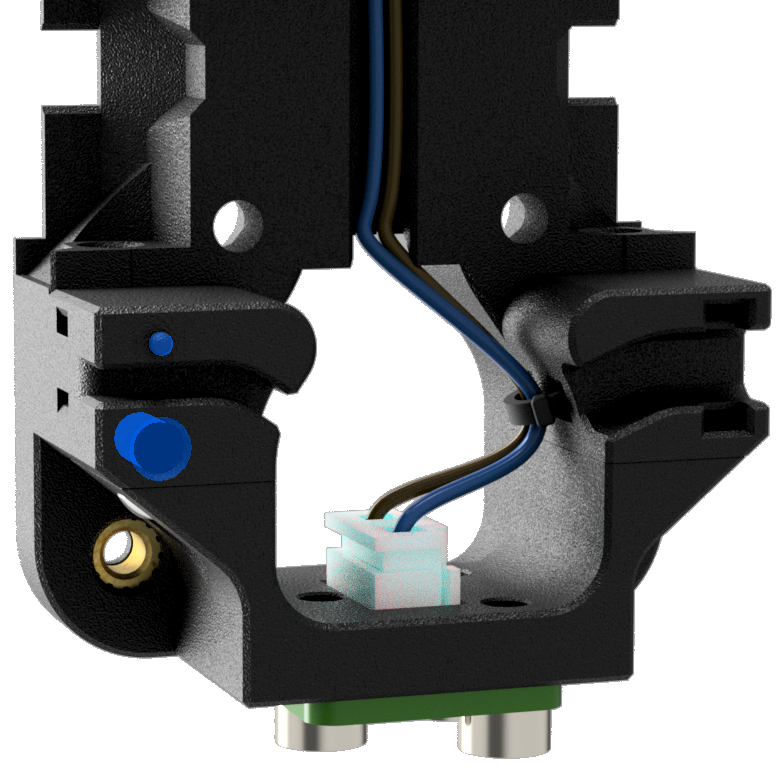
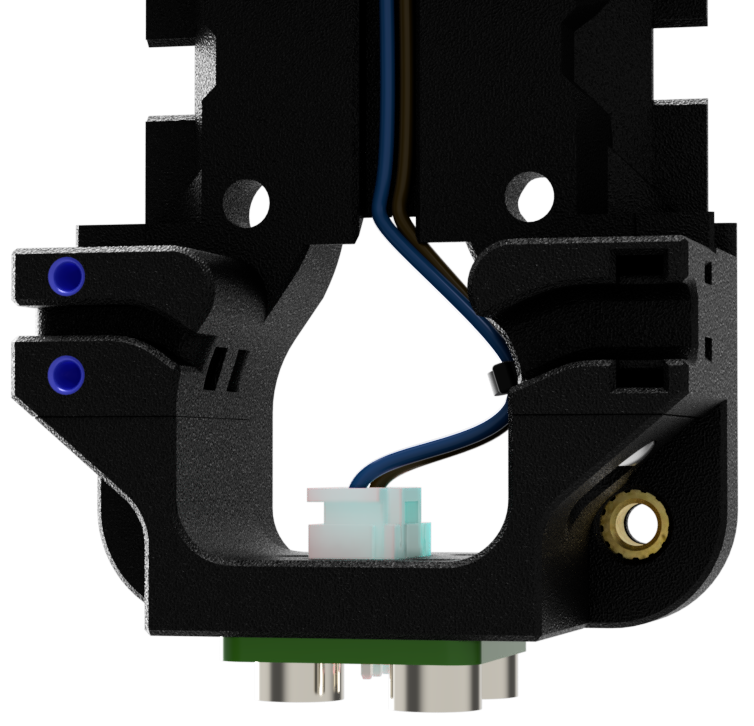
Toolhead assembly doco

diff --git a/docs/toolhead_assembly.md b/docs/toolhead_assembly.md
@@ -1,53 +1,32 @@
 # Xol Toolhead Assembly
 
-<img src='assets/images/xol_toolhead/toolhead-sherpa-rapido.png' width=300 />
+<img src='assets/images/Xol-Toolhead_render_with_both.png' width=100% />
 
 
-> ⚠ **Not Done**: Everything below here still needs to be updated
-> 
+`The details below are for Rapido and Sherpa-Mini. We have faith that you can work it out from here if you're using a different combination of hotend and extruder. If you have trouble look for the #xol-toolhead channel on the Discord.`
+|	Notes	|	Image	|
+|	--------------------	|	--------------------	|
+|	Remove the included supports. They're going to get in the way if you don’t.	|	<img src='assets/images/xol_toolhead/supports_he_mount.png' width=300 /><img src='assets/images/xol_toolhead/supports_extruder_mount.png' width=300 />	|
+|	An easy one to start, put one M3 hexnut into the hotend mount. <br/>`Pushes in from below on most, slides in from the side for NF-Crazy`	|	<img src='assets/images/xol_toolhead/em_hexnut.png' width=400 />	|
+|	LEDs are next (if you're using them). <br/>Push them into the slots provided.	|	<img src='assets/images/xol_toolhead/led_wires_1.png' width=400 /><br/><img src='assets/images/xol_toolhead/led_wires_2.png' width=300 /><br/><img src='assets/images/xol_toolhead/led_wires_3.png' width=300 />	|
+|	Push the diffuser (or accent logo piece) into the faceplate.	|	<img src='assets/images/xol_toolhead/faceplate_install_diffuser.png' width=400 />	|
+|	Install the 2510 hotend fan. Make sure you don't squash any LED wires, and secure with <br/>4x M3x16 SHCS.	|	<img src='assets/images/xol_toolhead/toolhead_2510_faceplate2.png' width=400 />	|
+|	Put the screws into the "feet" now, your hotend may be in the way later.<br/>2x M3x12 SHCS	|	<img src='assets/images/xol_toolhead/feet_screws.png' width=400 />	|
+|	Install your hotend into the mount. Don't forget the PTFE tube. `Shown with three screws due to example using Sherpa-Mini extruder mount with Rapido HE mount. Most combinations will use all four hotend screws.`	|	<img src='assets/images/xol_toolhead/install_he.png' width=400 />	|
+|	Slide the fans in and fix with printed parts and screws. `The printed parts protect the 4010 blower mounting ears. Don't skip them`<br/>4x M2.5 saver [printed part]<br/>4x M2.5x8 SCHS<br/><br/><br/><br/><br/><br/><br/>XolPAP users can skip this step. Those ducts are put on at the end.	|	<img src='assets/images/xol_toolhead/complete_he_mount2.png' width=300 /><img src='assets/images/xol_toolhead/complete_he_mount1.png' width=300 /><br/><img src='assets/images/xol_toolhead/complete_he_mount_xolpap.png' width=300 />	|
+|	Time to move onto the extruder mount assembly. Install 4 or 5 heatset inserts into your extruder mount.	|	<img src='assets/images/xol_toolhead/extruder_mount_heatsets.png' width=400 />	|
+|	Attach the extruder to the extruder mount.<br/>2x M3x20 SHCS for Sherpa-Mini (usually M3x8 SHCS for others)<br/>1x M3x6 BHCS for extruder faceplate where applicable.	|	<img src='assets/images/xol_toolhead/extruder_to_extruder_mount.png' width=400 />	|
+|	Screw your 20mm stand-offs onto the long screws you used to attach your extruders stepper motor.	|	<img src='assets/images/xol_toolhead/20mm_standoffs.png' width=400 />	|
+|	Now you can mount your toolhead board/CAN board/strain relief printed part etc. to the stand-offs<br/>2x M3x16 SHCS	|	<img src='assets/images/xol_toolhead/attach_ebb-CAN.png' width=400 />	|
+|	The extruder assembly is now combined with the HE mount assembly.<br/>1x M3x6 BHCS<br/>2x M3x16 SHCS `Just through enough to hold it all together`	|	<img src='assets/images/xol_toolhead/attach_extruder-to_he-mount.png' width=400 />	|
+|	Now that everything is together, those using CAN or other toolhead boards can cut/crimp/tidy wiring to the right lengths before final assembly.	|	<img src='assets/images/xol_toolhead/mess.jpg' width=400 />	|
+|	⚠ **Tap/Standard Voron carriage users only!**<br/><br/>Now you have to undo your cables from your toolhead board and pull the extruder assembly off again.<br/><br/>Take the extruder off the extruder mount, and attach it to the top of the Tap/Voron carriage with 2x M3x8 SHCS.<br/><br/>Slide the HE mount assembly up under the extruder mount and re-attach the HE mount to the extruder mount.`Rember you're probably screwing into plastic on a Voron carriage here!`<br/><br/>Now you can put your extruder/toolhead board bits back on and reconnect all your wires.	|	<img src='assets/images/xol_toolhead/tap_extruder_mount.png' width=400 /><br/><img src='assets/images/xol_toolhead/tap_extruder_and_hotend_mounts.png' width=400 /><br/><img src='assets/images/xol_toolhead/tap_extruder_and_thb.png' width=400 />	|
+|	Now that we have that Tap stuff out of the way. Time to get things attached for Xol Carriage.<br/><br/>Start with the two front, upper screws<br/>2x M3x16 that were already there but need to be tightened.	|	<img src='assets/images/xol_toolhead/toolhead_to_carriage_upper_screws.png' width=400 />	|
+|	⚠ **The front lower screws need a ball head hex driver. Don't strip your SHCS.**<br/><br/>Tighten the feet<br/>2x M3x12 SHCS, that were also already there. <br/><br/>`This is for Tap/Voron Carriages too.`	|	<img src='assets/images/xol_toolhead/toolhead_to_carriage_lower_screws.png' width=400 />	|
+|	Reach around the back for the last 3 screws!<br>3x M3x8 SHCS <br/><br/>`Sorry XolPAP users, you have some more screws`<br/><br/>`Don't forget to connect your probe`	|	<img src='assets/images/xol_toolhead/toolhead_to_carriage_rear_screws.png' width=400 />	|
+|	Alright XolPAP fans, we're finally here. Slide the ducts over the toolhead and attach with<br/>8x M2.5x8 SHCS `4 per side`	|	<img src='assets/images/xol_toolhead/xolpap_screws.png' width=400 />	|
+|Don't forget your software configuration!| ⚠ Things are probably different with your new setup. <br/> <br/> * Endstop positions for X: `[stepper_x]` check `position_endstop` and `position_max` <br/> * Your probe offset: Do a `probe_calibrate` <br/> You know your printer better than anyone else. Check your work. |
 
-### These instructions are for off-printer assembly using Xol Carriage. If you use Voron TAP, scroll down, you have to do things differently.
-The details below are for Rapido and Sherpa-Mini. We have faith that you can work it out from here if you're using a different combination of hotend and extruder. If you have trouble look for the #xol-toolhead channel on the Discord.
-| Notes                                                                                                                                                                                                                                                                                                                                                                                                                                                                                                                                                                   | Image                                                                                                                                                                                                                                                                            |
-| ----------------------------------------------------------------------------------------------------------------------------------------------------------------------------------------------------------------------------------------------------------------------------------------------------------------------------------------------------------------------------------------------------------------------------------------------------------------------------------------------------------------------------------------------------------------------- | -------------------------------------------------------------------------------------------------------------------------------------------------------------------------------------------------------------------------------------------------------------------------------- |
-| Warm up the soldering iron again. It's time for heatsets <br/><br/> Starting with the Hotend Mount <br/> 4x M2 will hold the back two screws of each 4010 blower fan                                                                                                                                                                                                                                                                                                                                                                                                     | <img src='assets/images/xol_toolhead/heatsets_hotend-mount_blowers-m2.png' width=400 />                                                                                                                                                                                          |
-| 2x M2.5 in the 'feet' for attaching to Xol-Carriage <br/> `If you're using TAP or you skipped on the M2.5 heatsets, skip these. M3 heatsets will go into the bottom of the Xol-Carriage front part`                                                                                                                                                                                                                                                                                                                                                                       | <img src='assets/images/xol_toolhead/heatsets_hotend-mount_feet-m2.5.png' width=400 />                                                                                                                                                                                           |
-| `Optional Fan Heatset versions` <br/> 4x M2.5 for Hotend fan mounting                                                                                                                                                                                                                                                                                                                                                                                                                                                                                                   | <img src='assets/images/xol_toolhead/heatsets_hotend-mount_HE-fan-m2.5.png' width=400 />                                                                                                                                                                                         |
-| 1x M3 Hex Nut for the front extruder block attachment point.                                                                                                                                                                                                                                                                                                                                                                                           | <img src='assets/images/xol_toolhead/hexnuts_hotend-mount_to-extruder-mount-m3.png' width=400 />                                                                                                                                                                                |
-| `Optional BONES` <br/> <br/> These can be a little tricky. Screw in the M2x30 SHCS from the front of the hotend mount until they are about 5.5mm from being fully screwed in. Now put in the M2 heatset from the back, and while it's still hot screw the M2x30 all the way in. This aligns the heatset while the plastic is still soft <br/> <br/> 2x M2 Heatset <br/> 2x M2x30 SHCS                                                                                                                                                                                   | <img src='assets/images/xol_toolhead/heatsets_hotend-mount_BONES-m2.png' width=400 />                                                                                                                                                                                            |
-| 2x M3 in the upper back of the extruder mount                                                                                                                                                                                                                                                                                                                                                                                                                                                                                                                           | <img src='assets/images/xol_toolhead/heatsets_extruder-mount_rear-M3.png' width=400 />                                                                                                                                                                                           |
-| Don't let your extruder fall off! <br/> `Different placement for different extruders` <br/> <br/> 0, 2, or 3 M3 Heatsets                                                                                                                                                                                                                                                                                                                                                                                                                                                | <img src='assets/images/xol_toolhead/heatsets_extruder-mount_extruder-M3.png' width=400 />                                                                                                                                                                                       |
-| 4x M2 in the faceplate rear (LED or standard) <br/> <br/><br/><br/> `The top two heatsets go in on the same angle as the bottom two, not straight in from the side`                                                                                                                                                                                                                                                                                                                                                                                                     | <img src='assets/images/xol_toolhead/Faceplate_heatsets_LED.png' width=105 /><img src='assets/images/xol_toolhead/Faceplate_heatsets.png' width=95 /><br/><img src='assets/images/xol_toolhead/Faceplate_heatsets_side.png' width=200>                                           |
-| Screw on the hotend and insert your PTFE tube <br/> `Some hotend mounts will only fit three screws if using the Sherpa-Mini extruder mount. All four screws fit for other extruder mounts` <br/> <br/> Find the [correct length PTFE](PTFE_Length.md) tube.                                                                                                                                                                                                                                                                                                                                                          | <img src='assets/images/xol_toolhead/Mount_hotend.png' width=500 />                                                                                                                                                                                                              |
-| Attach your extruder to the extruder mount with <br/> M3 x [correct length and type for your extruder] <br/> `Number and type of screws will be different for different extruders and mounts. We trust you to figure this out.`                                                                                                                                                                                                                                                                                                                                         | <img src='assets/images/xol_toolhead/attach_extruder.png' width=300 />                                                                                                                                                                                                           |
-| Time to put the major pieces together <br/> attach the Extruder Mount to the Hotend Mount. <br/> <br/> 1x M3x8 BHCS <br/> 2x M3x20 SHCS `Pass them through the holes to hold everything in place until it goes on the carriage`                                                                                                                                                                                                                                                                                                                                         | <img src='assets/images/xol_toolhead/attach_extruder-to_he-mount.png' width=300 />                                                                                                                                                                                               |
-| Attach your stepper motor with M3 screws long enough to securely attach the M3 x 20mm metal stand offs                                                                                                                                                                                                                                                                                                                                                                                                                                                                  | <img src='assets/images/xol_toolhead/attach_motor.png' width=300 />                                                                                                                                                                                                              |
-| Can you do the can-can? Me either. Attach your CAN or breakout board with <br/> * 2x M3 x 16 SHCS                                                                                                                                                                                                                                                                                                                                                                                                                                                                       | <img src='assets/images/xol_toolhead/attach_ebb-CAN.png' width=300 />                                                                                                                                                                                                            |
-| If you're using the LED faceplate, make sure the diffuser is in place. It should fit in place tight enough to stay put, but not tight enough to break.                                                                                                                                                                                                                                                                                                                                                                                                                  | <img src='assets/images/xol_toolhead/LED_faceplate_diffuser.png' width=100 />                                                                                                                                                                                                    |
-| Four screws to attach the hotend cooling fan. They go through the front and rear faceplate printed parts, and the 2510 fan. <br/> 4x M2.5 x 20 SHCS (`*don't over tighten especially if you're not using a fan heatset version`) <br/> <br/>`If you're using LEDs, the middle one should be in the rear faceplate, with one hanging down each side towards where the ducts will go. The wires go over the top of the 2510 fan.` <br/><br/> `**For Dragon UHF the two lower M2.5 screws must be M2.5 x18 SHCS (or cut down M2.5 x20) even with no fan heatset inserts**` | <img src='assets/images/xol_toolhead/fan_faceplate.png' width=300 />                                                                                                                                                                                                             |
-| Don't make a mess of it now. <br/> `We've added a slot through the top of the hotend mount to route your wires and keep them away from the X/Y joints`                                                                                                                                                                                                                                                                                                                                                                                                                    | <img src='assets/images/xol_toolhead/wire_exit.png' width=300 />                                                                                                                                                                                                                 |
-| Make sure to remove the built-in supports from the ducts before you install them. |<img src='assets/images/xol_toolhead/duct_support.png' width=300>|
-| Each fan attaches with <br/> * 3x M2 x 12 SHCS, and <br/> * 1x M2 x 8 SCHS `top rear` <br/><br/><br/><br/><br/><br/><br/><br/><br/><br/> `Don't forget your M2 Savers (or shorten top SHCS by 2mm)`  <br/><br/> `If you're using LEDs, push them into the sockets on the ducts before you attach the fans/duct to the toolhead`                                                                                                                                                                                                                                                                                                                                                        | <img src='assets/images/xol_toolhead/fan_screws.png' width=300> <br/> <br/> <img src='assets/images/xol_toolhead/M2-savers.png' width=300>                                                                                                                                                                                                                |
-| Finish off your wiring and tidy up with the cable tie slots. It's finally time to put this thing on the printer.                                                                                                                                                                                                                                                                                                                                                                                                                                                        | <img src='assets/images/xol_toolhead/mess.jpg' width=300 />                                                                                                                                                                                                                      |
-| Time to install it in the printer! <br/> <br/> Start with<br/> 2x M3 x 20 SHCS from the front                                                                                                                                                                                                                                                                                                                                                                                                                                                                           | <img src='assets/images/xol_toolhead/toolhead_to_carriage_front.png' width=300 />                                                                                                                                                                                                |
-| Sneak up from the rear with your Allen keys <br/> * 3x M3 x 8 SHCS at the top, and <br/> * 2x M2.5 x 10 SHCS at the bottom                                                                                                                                                                                                                                                                                                                                                                                                                                              | <img src='assets/images/xol_toolhead/toolhead_to_carriage_rear.png' width=300 />                                                                                                                                                                                                 |
-| Plug in your probe wires `end stop too if you haven't converted to sensorless homing yet` <br/> Connect your toolhead board or umbilical stuff. You're not using drag chains, are you?                                                                                                                                                                                                                                                                                                                                                                                  | <img src='assets/images/xol_toolhead/keep_it_tidy.png' width=300 /><img src='assets/images/xol_toolhead/photo_rear.png' width=300 />                                                                                                                                             |
-| You're done, but don't forget your software!!!                                                                                                                                                                                                                                                                                                                                                                                                                                                                                                                          | ⚠ Things are probably different with your new setup. <br/> <br/> * Endstop positions for X: `[stepper_x]` check `position_endstop` and `position_max` <br/> * Your probe offset: Do a `probe_calibrate` <br/> You know your printer better than anyone else. Check your work. |
-
-
-### Here lie the instructions for installing Xol Toolhead on Voron TAP. 
-If you haven't noticed yet, it's easier on Xol Carriage, but we get it TAP is TAP.
-
-
-|Notes | Image |
-|---------|----------|
-| `Install TAP into your printer as per Voron Design instructions` <br/> <br/> Once that's done, install the TAP adapter printed part for your extruder with <br/> * 2x M3 x 8 SHCS | <img src='assets/images/tap_toolhead/attach_tap_adapter.png' width=300 /> |
-| Install heatsets as per instructions above <br/> `Make sure not to put any in the feet. You may need to run an M3 drill through the feet too.` | <img src='assets/images/tap_toolhead/lower_toolhead_no_heatsets.png' width=300 /> |
-| Assemble the hotend mount with your hotend, 2510 HE cooling fan, faceplate parts and loosly attach the part cooling fans using the top screws only.  | <img src='assets/images/tap_toolhead/lower_toolhead_no_ducts.png' width=300 /> |
-| Now you can slide the mostly assembled hotent mount parts up behind the extruder mount and onto TAP using <br/> * 2x M3 x 20 SHCS (top), <br/> * 1x M3 x8 BHCS (extruder mount to HE mount), and <br/> * 2x M3 x 12 SCHS (in the feet) <br/> <br/> <br/> `Make sure you have the PTFE tube that goes between the extruder and hotend installed before moving onto the next step. Failure to do so will end in tears` <br/> [PTFE Tube Lengths](PTFE_Length.md) | <img src='assets/images/tap_toolhead/hotend_mount_to_TAP.png' width=300 /> |
-| Now you can attach the ducts and tighten all the M2 screws holding them, and the part cooling fans, on.  | <img src='assets/images/tap_toolhead/attach_ducts.png' width=300 /> |
-| Put your extruder, stand offs, EBB board mount and EBB board together. | <img src='assets/images/tap_toolhead/extruder_and_board.png' width=300 /> |
-| Attach your extruder/board etc. to the top of the TAP adapter plate. <br/> You're ready to finish wiring, software config and start printing. Sounds simples right? | <img src='assets/images/tap_toolhead/tap_dragonUHF_orbiter.png' width=300 /> |
 
 <br/><br/><br/><br/>
  ⬅ [Carriage assembly](xol_carriage_assembly.md)
